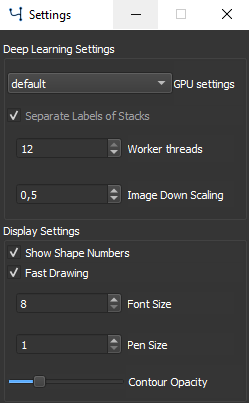
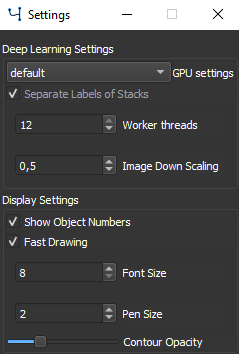
update manual

diff --git a/ui/ui_Results.py b/ui/ui_Results.py
@@ -56,8 +56,6 @@ class Window(object):
         self.LEScale = QLineEdit(self.centralWidget) 
         self.LEScale.setMaximumSize(100, 28)
         self.LEScale.setObjectName('Scale')
-        self.LEScale.setStyleSheet("border: None")
-        self.LEScale.setStyleSheet('font:bold')
         self.LEScale.setToolTip('Scale in pixel per mm')
         self.LEScale.setAlignment(Qt.AlignRight)
         self.LEScale.setValidator(QIntValidator(1,999999999))
@@ -244,7 +242,7 @@ class ResultsWindow(QMainWindow, Window):
                 elif self.parent.LearningMode() == dlMode.Object_Counting:
                     self.odResults.saveObjects(csvWriter, images, labels)
                 else:
-                    self.parent.emitPopup('Not supported detection mode')
+                    self.parent.emitPopup('Detection mode not supported')
 
                 self.parent.emitProgressFinished()
                 self.parent.emitStatus('results saved')

diff --git a/ui/UI.py b/ui/UI.py
@@ -340,7 +340,7 @@ class MainWindow(object):
         self.BTrack.setIcon(QIcon('icons/tracking.png'))
 
         self.trcolorlayout = QHBoxLayout(self.centralWidget)
-        self.CBtrackcolor = QCheckBox("color coding",self.centralWidget)
+        self.CBtrackcolor = QCheckBox("Color Coding",self.centralWidget)
         self.CBtrackcolor.setToolTip("Check to change coloring by objects, uncheck to color by classes")
         self.CBtrackcolor.setObjectName('TrackColor')
         self.CBtrackcolor.setChecked(True)

diff --git a/ui/ui_Settings.py b/ui/ui_Settings.py
@@ -94,7 +94,7 @@ class Window(object):
         vlayout.setSpacing(1)        
         
                 
-        self.CBShapeNumbers = QCheckBox("Show Shape Numbers",self.centralWidget)
+        self.CBShapeNumbers = QCheckBox("Show Object Numbers",self.centralWidget)
         self.CBShapeNumbers.setToolTip('Select to show number below each shape')
         self.CBShapeNumbers.setObjectName('ShowShapeNumbers')
         vlayout.addWidget(self.CBShapeNumbers)

diff --git a/ui/style.py b/ui/style.py
@@ -64,5 +64,4 @@ def styleForm(form):
 #    palette.setColor(QPalette.ToolTipBase, Qt.white)
 #    palette.setColor(QPalette.ToolTipText, Qt.white)
 #    form.setPalette(palette)
-    
     pass 

diff --git a/docs/source/postprocessing/tracking.rst b/docs/source/postprocessing/tracking.rst
@@ -1,2 +1,64 @@
+.. include:: ../icons.txt
+
+********
 Tracking
-========
+********
+
+Tracking is used to follow individual predictions over multiple images of a image sequence, for example to follow cell movement.
+The tracking mode can be switched on and off in the postprocessing window.
+
+.. figure:: images/trackingswitch.png
+  :class: shadow-image
+  :align: center
+  
+  Turn on tracking mode
+  
+After enabling the tracking mode, the tracking panel is shown in the main window.
+
+.. figure:: images/tracking.png
+  :class: shadow-image
+  :align: center
+  
+  The tracking panel
+  
+.. note::
+  Tracking can only performed with images from the :ref:`test folder <folders>`. If you would like to calculate tracking load the target folder as test folder.
+  
+In general, there are 2 options for image tracking. Either the target sequence consists of single images in a folder or an image stack with multiple frames can be used.
+
+.. caution::
+  It is not supported to combine individual images **and** image stacks.
+  
+It is recommended to first finish or correct the predictions and perform tracking as the final step, however labels can also be changed after tracking was performed.
+
+Press |tracking| ** Calculate Tracking** to perform object racking based on Hungarian Algorithm [#hun]_. Objects with the same number present in different images are considered as the same object.
+
+.. tip::
+	Tracking is calculated from the first image to the last. When checking for corrections go from first to the last image and correct potential errors in between. 
+
+**Color Coding** sets an individual color for each object. Unchecking Color Coding sets the color of each object to their class color. Note that the object number is always in the corresponding class color. 
+
+**Show Track** shows all previous positions of each object as a line.
+
+.. figure:: images/celltrack.png
+  :class: shadow-image
+  :align: center
+  
+  Current shape and the previous positions shown as a tracking line of a detected cell
+  
+To assign a new object number to a detected object use |objectnumber| and press with :kbd:`left_mouse` on the target object, type the target object number in the opened window.
+
+.. note::
+  If you assign an existing object number to an object, a new number is assigned to the object that previously had that number.
+  
+To change the color of an object select |objectcolor| and press on the target object and select a new color.
+
+To completely remove an object, meaning in all images where that object occurs, press |delete| (in the tracking panel) and press on the object that you would like to remove. To remove an object only in the current image use the |delete| from the tools panel.
+
+.. note::
+  When tracking mode is activated, the positions of each object are exported when saving :doc:`results <../results/index>`.
+  
+---------  
+  
+.. [#hun]
+  Kuhn, H.W., 1955. The Hungarian method for the assignment problem. Naval research logistics quarterly, 2(1‐2), pp.83-97.

diff --git a/docs/source/results/index.rst b/docs/source/results/index.rst
@@ -1,9 +1,37 @@
+.. include:: ../icons.txt
+
 *******
 Results
 *******
 
+To save export the results open the results window by pressing |results| **Results**.
 
-.. toctree::
-  :maxdepth: 2
+.. figure:: images/results.png
+  :class: shadow-image
+  :align: center
+  
+  The results window
+  
+**Use scaled size** can be checked to scale all values from pixel to a specified distance.
 
-	
+To set the scale in **pixel per mm** fill in the corresponding field or use the |measure| tool.
+When selecting the measure tool, you can set 2 markers by pressing :kbd:`left_mouse` in the image to measure the distance between the 2 markers and and align them to a specified distance. 
+The scale in pixel per mm is automatically filled in the corresponding field.
+
+.. figure:: images/setscale.png
+  :class: shadow-image
+  :align: center
+  
+  Set the scale by measuring the distance defined by the scale bar
+  
+Press |Settings| **Settings** to open the settings menu, specific for each :doc:`application <../applications/index>`. In the settings menu you can specify the save options.
+
+To export labels as masks, for example to use with another software, press |exportmask| **Export Mask** and select a location. To export all labels in the test :ref:`test folder <folders>` press |exportallmasks| **Export all Masks**, the corresponding masks are saved automatically in the subfolder named 'exported_masks' present in the current test folder.
+
+.. note::
+  Masks are saved as tiff-files, having the same size as the corresponding image, with all pixel that are labelled as background set to 255 and all pixel that are labelled by a class set to the value corresponding to that class (i.e. first class set to 1).
+
+Press |savemodel| **Save** to save the results of the currently displayed image.
+
+Press |saveall| **Save all** to save the reuslts of all images in the test folder.
+

diff --git a/docs/source/prediction/index.rst b/docs/source/prediction/index.rst
@@ -1,8 +1,24 @@
+.. include:: ../icons.txt
+
 **********
 Prediction
 **********
 
-.. toctree::
-  :maxdepth: 2
+Prediction or inference is the process of using a trained neural network to predict unknown images. Model weights are not updated during prediction.
 
-	
+.. tip::
+  Multiple predictions of a neural network for the same input image lead to identical results. You can always reproduce results by saving and keeping track of your trained models.
+  
+Press |predict| **Predict** button to predict to make a prediction for the current image with the current model. Prediction also works during training when you want to get a quick snapshot of the model's prediction output.
+
+.. note::
+  The prediction is made for the current field of view. Everything outside the field of view is unaffected.
+  
+Press the |predictall| **Predict All** button to predict all images in the test folder, no subfolders included. Note that the prediction might take some time. The prediction is run in a background thread, you can continue working with MIA during prediction. 
+The :ref:`status bar <statusbar>` shows the progress of the prediction.
+
+.. caution::
+  Please be aware that it is not recommended to change the labels of images that are currently predicted, as this might lead to conflicts.
+
+
+  

diff --git a/docs/source/training/augmentation.rst b/docs/source/training/augmentation.rst
@@ -15,11 +15,11 @@ To open the Training Settings press |augmentation| **Augmentations** in the :doc
   
 Check the **Augmentations** option to enable augmentaions. 
 
-The **Input width** and **Input height** not necessarily relates to augmentation but defines the input size of the neural network in pixel. For some of the :doc:`applications <../applications/index>`, the input images are split into patches that are fed into the network, so a larger network input would not necessarily benefit in better results.
+The **Input width** and **Input height** not necessarily relates to augmentation but defines the input size of the neural network in pixel. For some of the :doc:`applications <../applications/index>`, the input images are split into patches that are fed into the network, so a larger network input would not necessarily lead to better results.
 
-Check **Flip horizontal** to mirror an image with 50 percent probability horizontally.
+Check **Flip horizontal** to mirror an image horizontally with 50% probability.
 
-Check **Flip vertical** to mirror an image with 50 percent probability vertically.
+Check **Flip vertical** to mirror an image vertically with 50% probability.
 
 Set the percentage to apply gaussian **Blur** to an imput image.
 

diff --git a/docs/source/gettingstarted/ui.rst b/docs/source/gettingstarted/ui.rst
@@ -122,7 +122,7 @@ Press the |train| **Train Model** button to open the training dialog for trainin
 
 Press the |clear| **Reset Model** button to delete the currently trained/loaded model. Be sure to save the model if you want reuse the model before resetting.
 
-Press the |predictall| **Predict All** button to predict all images in the test folder or the |predict| button to predict the current image (see :doc:`../prediction/index` for details) with the current model.
+Press the |predictall| **Predict All** button to predict all images in the test folder or the |predict| **Predict** button to predict the current image (see :doc:`../prediction/index` for details) with the current model.
 
 Press the |loadmodel| **Load Model** button to load a saved deep learning model.
 

diff --git a/docs/source/gettingstarted/settings.rst b/docs/source/gettingstarted/settings.rst
@@ -27,7 +27,7 @@ In the **GPU settings**, the engine for deep learning training and prediction ca
 Display Settings
 ================
 
-Check **Show shape numbers** to display the object number of each displayed shape.
+Check **Show Object Numbers** to display the object number of each displayed shape.
 
 **Fast drawing** enhances drawing speed of objects on the image. Usually it is not necessary to check the Fast drawing option, however if you have huge amounts of object or notice software delay during image labelling, Fast drawing might improve experience. 
 

diff --git a/docs/source/training/nntraining.rst b/docs/source/training/nntraining.rst
@@ -29,7 +29,7 @@ The image labels (=ground truth) for the network training are different for each
 The Training WIndow
 ===================
 
-The Training Window can be openend by pressing |train| Train Model.
+The Training Window can be openend by pressing |train| **Train Model**.
 
 .. figure:: images/training.png
   :class: shadow-image

diff --git a/docs/source/postprocessing/postprocessing.rst b/docs/source/postprocessing/postprocessing.rst
@@ -1,0 +1,9 @@
+.. include:: ../icons.txt
+
+**************
+Postprocessing
+**************
+
+To open the postporcessing window press |postprocessing| **Postprocessing** in the main window.
+
+The postporcessing options are different for every applications, so please refer to :doc:`../applications/index` for details.
